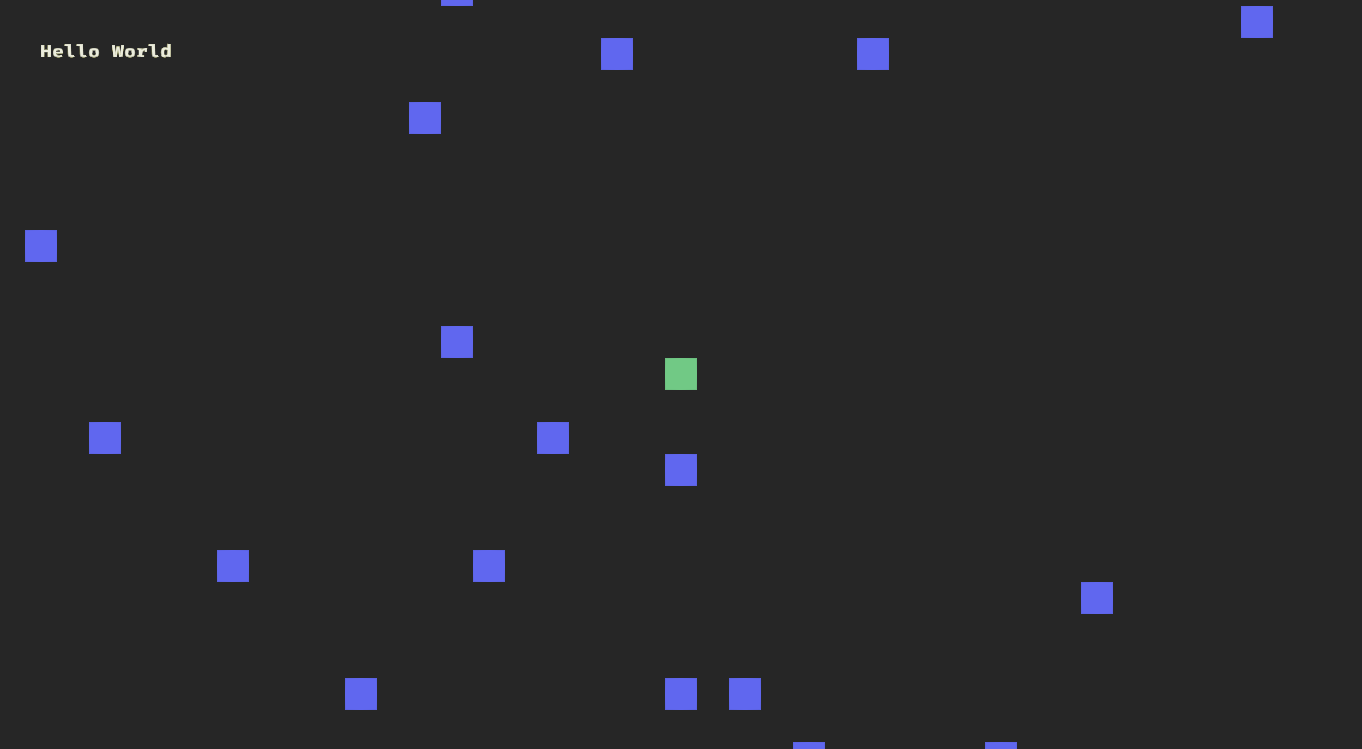
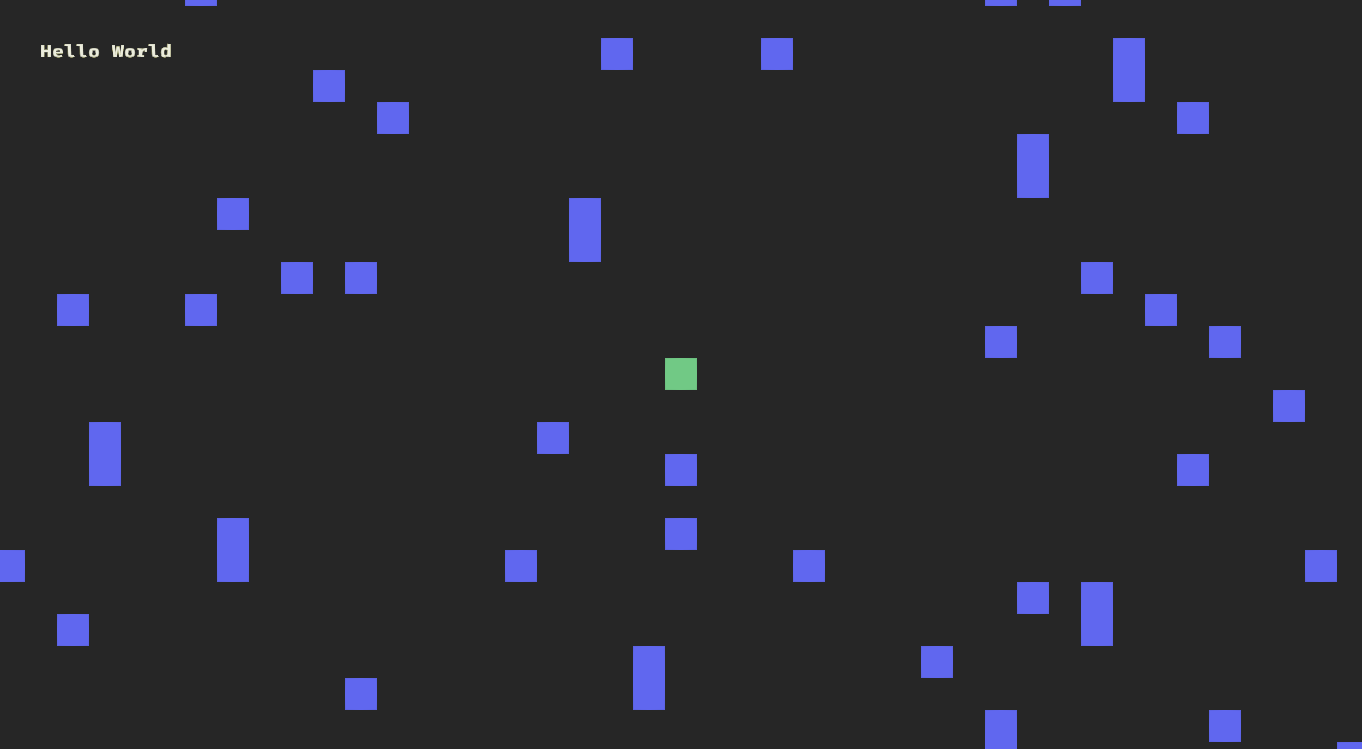
snake game

diff --git a/main.c b/main.c
@@ -1,3 +1,4 @@
+#include "external/cglm/include/cglm/types.h"
 #include "external/cglm/include/cglm/vec2.h"
 #include "renderer.h"
 #include "tinytypes.h"
@@ -120,7 +121,7 @@ PUSH_CONSTANT(SpritePushConstants,
 #define MAX_SPRITES 10000
 #define MAX_SNAKE 256
 #define CELL 32.0f
-
+#define MAX_EATEN_FOOD 2048
 typedef struct SpriteRenderer
 {
     GPU_Quad2D* instances;
@@ -142,7 +143,8 @@ typedef struct Snake
     vec2 body[MAX_SNAKE];
     vec2 prev_body[MAX_SNAKE];
     int  length;
-
+    vec2 food_eaten[MAX_EATEN_FOOD];
+    u32  eaten_count;
     vec2 dir;
     vec2 next_dir;
 
@@ -238,7 +240,7 @@ void sprite_end(SpriteRenderer* r, VkCommandBuffer cmd)
     uint32_t start = 0;
 
     while(start < r->instance_count)
-  
+
     {
         uint32_t tex   = r->instances[start].texture_id;
         uint32_t count = 1;
@@ -369,9 +371,22 @@ static void snake_init(Snake* s)
     s->just_reset = true;
 }
 
+static bool is_eaten(Snake* s, int x, int y)
+{
+    for(int i = 0; i < s->eaten_count; i++)
+    {
+        if(s->food_eaten[i][0] == x && s->food_eaten[i][1] == y)
+            return true;
+    }
+    return false;
+}
+
+
 static void snake_input(Snake* s)
 {
-    if(glfwGetKey(renderer.window, GLFW_KEY_S) == GLFW_PRESS)
+    // UP (W or ↑)
+    if(glfwGetKey(renderer.window, GLFW_KEY_W) == GLFW_PRESS ||
+       glfwGetKey(renderer.window, GLFW_KEY_UP) == GLFW_PRESS)
     {
         if(s->dir[1] != 1.0f)
         {
@@ -380,7 +395,9 @@ static void snake_input(Snake* s)
         }
     }
 
-    if(glfwGetKey(renderer.window, GLFW_KEY_W) == GLFW_PRESS)
+    // DOWN (S or ↓)
+    if(glfwGetKey(renderer.window, GLFW_KEY_S) == GLFW_PRESS ||
+       glfwGetKey(renderer.window, GLFW_KEY_DOWN) == GLFW_PRESS)
     {
         if(s->dir[1] != -1.0f)
         {
@@ -389,7 +406,9 @@ static void snake_input(Snake* s)
         }
     }
 
-    if(glfwGetKey(renderer.window, GLFW_KEY_A) == GLFW_PRESS)
+    // LEFT (A or ←)
+    if(glfwGetKey(renderer.window, GLFW_KEY_A) == GLFW_PRESS ||
+       glfwGetKey(renderer.window, GLFW_KEY_LEFT) == GLFW_PRESS)
     {
         if(s->dir[0] != 1.0f)
         {
@@ -398,7 +417,9 @@ static void snake_input(Snake* s)
         }
     }
 
-    if(glfwGetKey(renderer.window, GLFW_KEY_D) == GLFW_PRESS)
+    // RIGHT (D or →)
+    if(glfwGetKey(renderer.window, GLFW_KEY_D) == GLFW_PRESS ||
+       glfwGetKey(renderer.window, GLFW_KEY_RIGHT) == GLFW_PRESS)
     {
         if(s->dir[0] != -1.0f)
         {
@@ -408,6 +429,18 @@ static void snake_input(Snake* s)
     }
 }
 
+static uint32_t snake_hash2d(int x, int y)
+{
+    uint32_t h = (uint32_t)(x * 374761393u + y * 668265263u);
+    h          = (h ^ (h >> 13)) * 1274126177u;
+    return h;
+}
+
+
+bool snake_is_food_at(int x, int y)
+{
+    return (snake_hash2d(x, y) % 20u) == 0u;
+}
 static void snake_step(Snake* s)
 {
     for(int i = 0; i < s->length; i++)
@@ -437,15 +470,23 @@ static void snake_step(Snake* s)
         }
     }
 
-    int head_x = (int)s->body[0][0];
-    int head_y = (int)s->body[0][1];
-    uint32_t h = (uint32_t)(head_x * 374761393u + head_y * 668265263u);
-    h          = (h ^ (h >> 13)) * 1274126177u;
+    int      head_x = (int)s->body[0][0];
+    int      head_y = (int)s->body[0][1];
+    uint32_t h      = (uint32_t)(head_x * 374761393u + head_y * 668265263u);
+    h               = (h ^ (h >> 13)) * 1274126177u;
 
-    if((h % 50u) == 0u)
+    if(snake_is_food_at(head_x, head_y) && !is_eaten(s, head_x, head_y))
     {
         if(s->length < MAX_SNAKE)
             s->length++;
+
+        // store eaten food
+        if(s->eaten_count < MAX_EATEN_FOOD)
+        {
+            s->food_eaten[s->eaten_count][0] = head_x;
+            s->food_eaten[s->eaten_count][1] = head_y;
+            s->eaten_count++;
+        }
     }
 }
 
@@ -487,18 +528,6 @@ static void snake_head_render_position(const Snake* s, float* out_x, float* out_
 
     *out_x = head_x * CELL;
     *out_y = head_y * CELL;
-}
-
-static uint32_t snake_hash2d(int x, int y)
-{
-    uint32_t h = (uint32_t)(x * 374761393u + y * 668265263u);
-    h          = (h ^ (h >> 13)) * 1274126177u;
-    return h;
-}
-
-static bool snake_is_food_at(int x, int y)
-{
-    return (snake_hash2d(x, y) % 20u) == 0u;
 }
 
 static void snake_render(SpriteRenderer* r, Snake* s)
@@ -547,7 +576,7 @@ static void snake_render(SpriteRenderer* r, Snake* s)
     }
 }
 
-static void snake_render_visible_food(SpriteRenderer* r, float cam_x, float cam_y)
+static void snake_render_visible_food(SpriteRenderer* r, float cam_x, float cam_y, Snake* snake)
 {
     int half_cells_x = (int)ceilf(((float)renderer.swapchain.extent.width * 0.5f) / CELL);
     int half_cells_y = (int)ceilf(((float)renderer.swapchain.extent.height * 0.5f) / CELL);
@@ -566,24 +595,25 @@ static void snake_render_visible_food(SpriteRenderer* r, float cam_x, float cam_
         {
             if(!snake_is_food_at(x, y))
                 continue;
-
+            if(is_eaten(snake, x, y))
+                continue;
             Sprite2D food = {0};
 
-            food.texture_id = renderer.dummy_texture;
-            food.position[0] = (float)x * CELL;
-            food.position[1] = (float)y * CELL;
-            food.scale[0] = CELL;
-            food.scale[1] = CELL;
-            food.rotation = 0.0f;
-            food.depth    = 0.0f;
+            food.texture_id    = renderer.dummy_texture;
+            food.position[0]   = (float)x * CELL;
+            food.position[1]   = (float)y * CELL;
+            food.scale[0]      = CELL;
+            food.scale[1]      = CELL;
+            food.rotation      = 0.0f;
+            food.depth         = 0.0f;
             food.tint_color[0] = 1.0f;
             food.tint_color[1] = 0.2f;
             food.tint_color[2] = 0.2f;
             food.tint_color[3] = 1.0f;
-            food.uv_rect[0] = 0.0f;
-            food.uv_rect[1] = 0.0f;
-            food.uv_rect[2] = 1.0f;
-            food.uv_rect[3] = 1.0f;
+            food.uv_rect[0]    = 0.0f;
+            food.uv_rect[1]    = 0.0f;
+            food.uv_rect[2]    = 1.0f;
+            food.uv_rect[3]    = 1.0f;
 
             sprite_submit(r, &food);
         }
@@ -635,7 +665,7 @@ int main(void)
             float camera_y = 0.0f;
             snake_head_render_position(&snake, &camera_x, &camera_y);
             camera2d_set_position(&cam, camera_x, camera_y);
-            snake_render_visible_food(&sprites, camera_x, camera_y);
+            snake_render_visible_food(&sprites, camera_x, camera_y,&snake);
             snake_render(&sprites, &snake);
             snake_end_frame(&snake);
             vec4 text_color = {1.0f, 2.0f, 2.0f, 1.0f};
